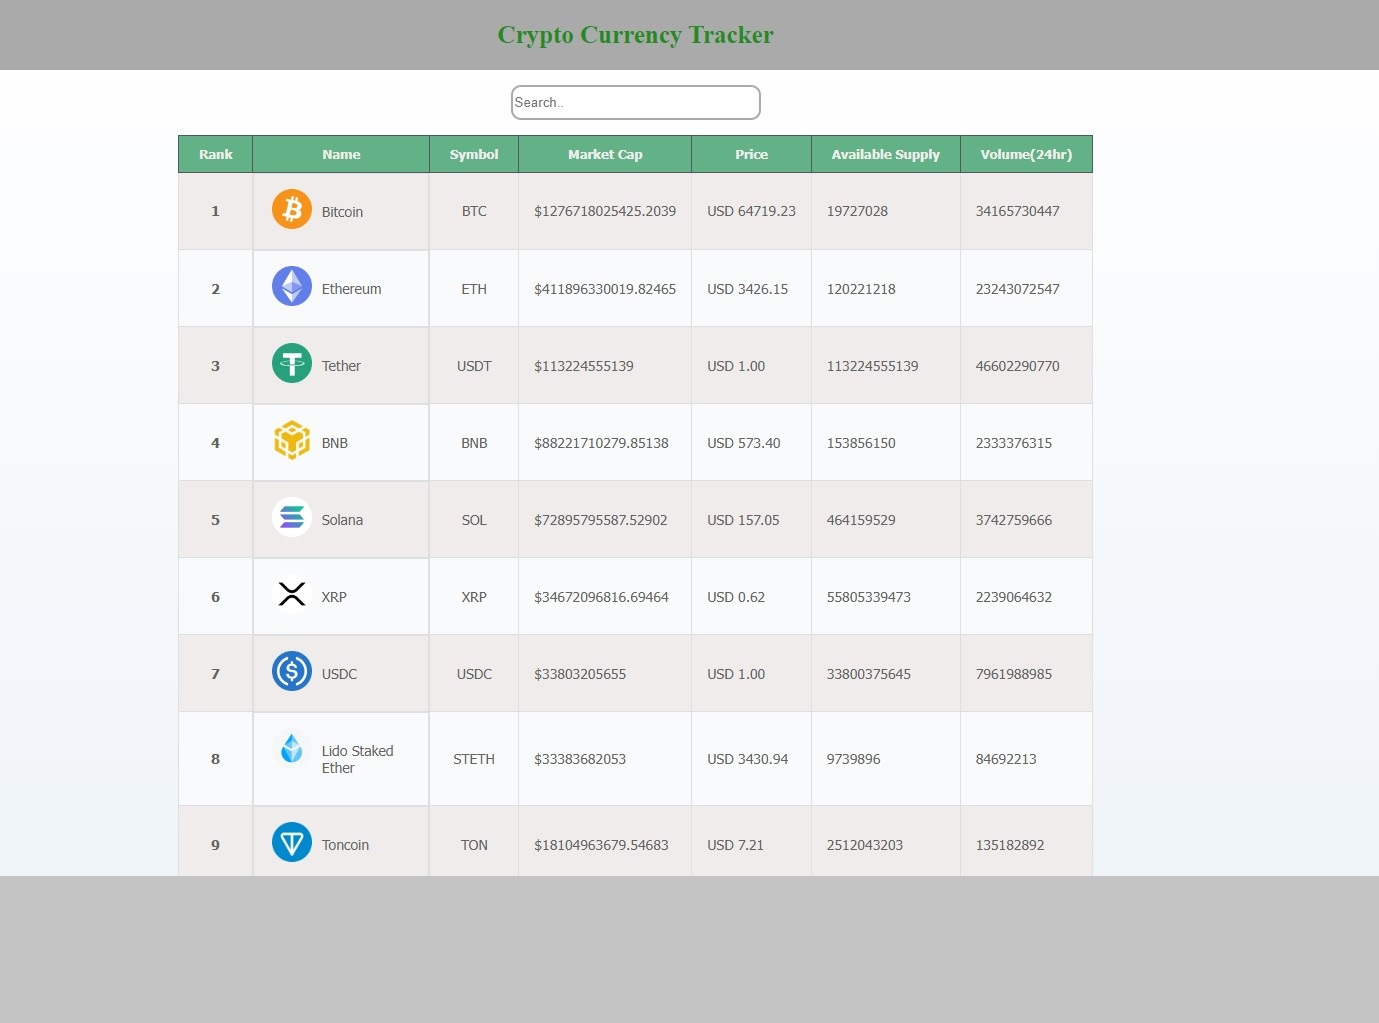
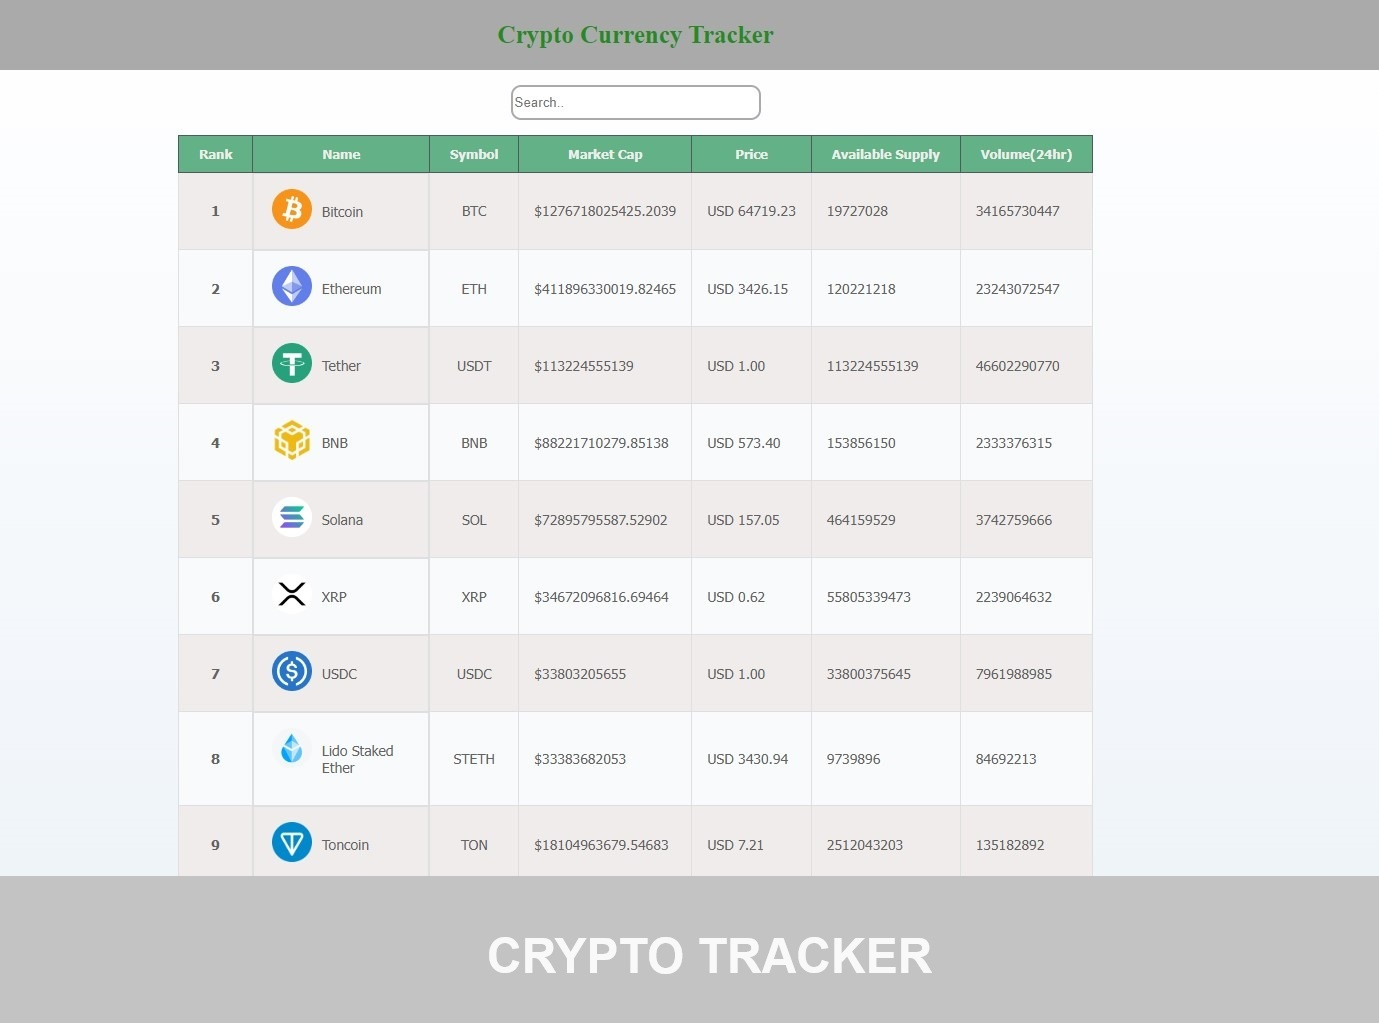
update footer

Changed region(s): [[0.343, 0.9091, 0.686, 0.9697]]

diff --git a/src/components/Portfolio.jsx b/src/components/Portfolio.jsx
@@ -16,6 +16,7 @@ const Portfolio = () => {
     },
     {
       id: 2,
+      project: "mern-chat",
       src: letusChat,
       link: 'https://letuscat.onrender.com/chats',
       repo: 'https://github.com/nairgh/MERN-chat'
@@ -45,7 +46,7 @@ const Portfolio = () => {
       repo: 'https://github.com/nairgh/dish-delights'
     },
   ];
-
+  console.log(portfolios.project);
   return (
     <div
       name="portfolio"
@@ -60,7 +61,7 @@ const Portfolio = () => {
         </div>
 
         <div className="grid sm:grid-cols-2 md:grid-cols-3 gap-8 px-12 sm:px-0">
-          {portfolios.map(({ id, src, link, repo }) => (
+          {portfolios.map(({ id, src, link, repo, project }) => (
             <div key={id} className="shadow-md shadow-gray-600 rounded-lg">
               <img
                 src={src}

diff --git a/src/components/Footer.jsx b/src/components/Footer.jsx
@@ -1,13 +1,17 @@
 import React from "react";
 
-function Footer(){
-    return(
-        <div class="text-center p-6 bg-black footer">
-        <span class="text-white">&copy; 2024 Copyright - </span>
-        <a class="link-underline text-white font-bold" href="https://rahulkarda.netlify.app">Hari Nair</a>
-      </div>
-    )
+function Footer() {
+  return (
+    <div class="text-center p-6 bg-black footer">
+      <span class="text-white">&copy; 2024 Copyright - </span>
+      <a
+        class="link-underline text-white font-bold"
+        href="https://harinair.netlify.app/"
+      >
+        Hari Nair
+      </a>
+    </div>
+  );
 }
 
-
-export default Footer
+export default Footer;
